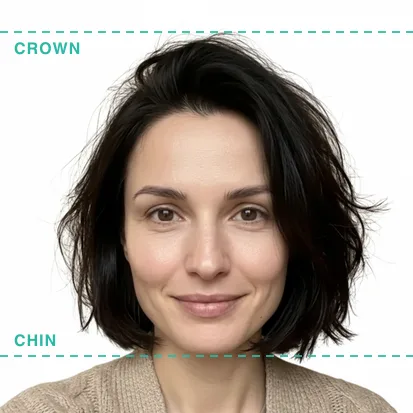
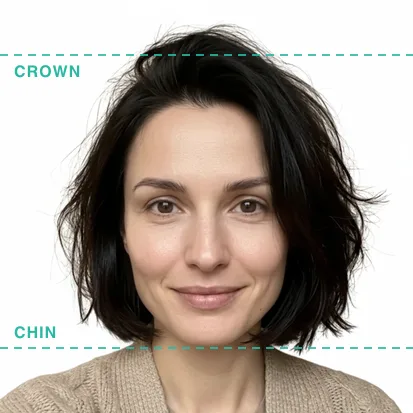
[fix] 크롭 안착 v3 — 정수리 앵커(IDPASS 정본 수학) + wide 프레이밍 생성, 붕 뜬 배치 교정
v2의 헤어끝~턱=얼굴 측정은 규격 정의(정수리~턱) 위반 — 두상 축소 배치의 원인.
크롭앱 정본(crown=눈~턱 반전, 눈 44%, 허용 40~48%) 이식, 순백 스캔은 헤어 잘림 방지로 강등.
specs 생성 프롬프트 wide(가슴 위·머리 위 여백 15%) 전환 — 크롭 원자재 확보(어깨선 동근원).
faceTarget 범위 상위권(min+0.6폭) 상향. 가이드 25종 재생성(CROWN=정수리).

diff --git a/monkos_AI/crop-engine/lib/crop.js b/monkos_AI/crop-engine/lib/crop.js
@@ -189,62 +189,81 @@ async function cropWithPadding(imageBuffer, scale, extractTop, extractLeft, fram
 }
 
 /**
- * 규격 안착 크롭 v2 — 순백 배경 전제 (스펙스 파이프라인 전용, 2026-07-06)
+ * 규격 안착 크롭 v3 — IDPASS 크롭앱 정본 수학 이식 (2026-07-06 야간 교정)
  *
- * AI 배경제거 출력(순백 #FFF)이 입력이므로 피사체 상단(머리끝)을 픽셀 실측할 수 있다.
- * v1의 해부학 정수리 추정(눈~턱 반전 + 헤어볼륨 8%)은 헤어스타일에 따라 실측과 어긋나
- * 상단 여백 0mm 밀착이 발생(2026-07-06 Phase 0 실측) — v2는 실측 앵커로 대체.
+ * v2의 "머리끝~턱 = 얼굴" 측정은 오류였다: 규격의 머리 높이는 정수리~턱(두상)이며,
+ * 헤어 볼륨을 얼굴에 포함하면 두상이 축소 배치돼 틀 안에서 붕 뜬다 (작가님 실사고 지적).
  *
- * 배치: face = 실측 머리끝 ~ FaceMesh 턱을 spec.faceTargetMm으로 스케일,
- *       머리끝을 spec.topMarginMm에 안착, 양 눈 중심을 수평 중앙 정렬.
+ * 정본 배치 (portal/public/crop/crop.js = IDPASS 검증 로직):
+ *   crown = 눈 - (턱 - 눈)  ← 해부학: 눈은 두상의 1/2
+ *   face  = crown ~ chin  →  spec.faceTargetMm으로 스케일
+ *   눈 위치 = 프레임 상단 44% (허용 40~48%)
+ * 순백 스캔(머리끝 실측)은 "헤어 잘림 방지" 보조로만: 헤어가 프레임 밖이면
+ * 내려 앉히고, 눈 48% 초과 시 faceMinMm까지 축소.
  *
- * @param {Buffer} imageBuffer - 순백 배경 이미지
- * @param {object} landmarks - detectFace() 반환값
- * @param {object} spec - { frameW, frameH (px), frameHmm, faceTargetMm, topMarginMm }
+ * @param {object} spec - { frameW, frameH(px), frameHmm, faceTargetMm, faceMinMm?, hairMarginMm? }
  */
+const EYE_TARGET_RATIO = 0.44;   // 크롭앱 최적 43~45%
+const EYE_MAX_RATIO = 0.48;      // 크롭앱 허용 상한
+const HAIR_MARGIN_MM_DEFAULT = 2; // 헤어탑 위 최소 여백
+
 export async function cropToSpecV2(imageBuffer, landmarks, spec) {
-  const { frameW, frameH, frameHmm, faceTargetMm, topMarginMm } = spec;
+  const { frameW, frameH, frameHmm, faceTargetMm } = spec;
   if (!frameW || !frameH || !frameHmm || !faceTargetMm) {
-    throw new Error('[CropV2] spec 필수 필드 누락 (frameW/frameH/frameHmm/faceTargetMm)');
+    throw new Error('[CropV3] spec 필수 필드 누락 (frameW/frameH/frameHmm/faceTargetMm)');
   }
   const mmPx = frameH / frameHmm;
-  const topMm = (typeof topMarginMm === 'number') ? topMarginMm : frameHmm * 0.078;
+  const faceMinMm = spec.faceMinMm || faceTargetMm * 0.93;
+  const hairMarginPx = (spec.hairMarginMm || HAIR_MARGIN_MM_DEFAULT) * mmPx;
 
-  const hairTop = await subjectTopRow(imageBuffer);
   const { chin, leftEye, rightEye, imageWidth, imageHeight } = landmarks;
-  const facePx = chin.y - hairTop;
-  if (facePx <= 0) throw new Error('[CropV2] 유효하지 않은 얼굴 높이 (머리끝 실측 실패 가능)');
+  const eyeY = (leftEye.y + rightEye.y) / 2;
+  const crownY = eyeY - (chin.y - eyeY); // 정수리 = 눈~턱 반전 (크롭앱 동일)
+  const facePx = chin.y - crownY;
+  if (facePx <= 0) throw new Error('[CropV3] 유효하지 않은 얼굴 높이');
+  const hairTop = await subjectTopRow(imageBuffer); // 실측 머리끝 (잘림 방지 보조)
 
-  const scale = (faceTargetMm * mmPx) / facePx;
+  let scale = (faceTargetMm * mmPx) / facePx;
+  const place = (s) => Math.round(eyeY * s - EYE_TARGET_RATIO * frameH); // 눈 44% 앵커
+
+  let extractTop = place(scale);
+  // 헤어 잘림 방지 — 헤어탑이 여백 미달이면 내려 앉힘, 눈 상한(48%) 초과 시 얼굴 축소
+  if (hairTop * scale - extractTop < hairMarginPx) {
+    extractTop = Math.round(hairTop * scale - hairMarginPx);
+    let eyeRatio = (eyeY * scale - extractTop) / frameH;
+    while (eyeRatio > EYE_MAX_RATIO && (facePx * scale / mmPx) > faceMinMm) {
+      scale *= 0.99;
+      extractTop = Math.round(hairTop * scale - hairMarginPx);
+      eyeRatio = (eyeY * scale - extractTop) / frameH;
+    }
+  }
+
   const eyeCenterX = (leftEye.x + rightEye.x) / 2;
   const scaledW = Math.round(imageWidth * scale);
   const scaledH = Math.round(imageHeight * scale);
-
-  let extractTop = Math.round(hairTop * scale - topMm * mmPx);
   let extractLeft = Math.round(eyeCenterX * scale - frameW / 2);
+
+  const buildMeta = (padded) => ({
+    faceMM: (facePx * scale / mmPx).toFixed(1),                                  // 정수리~턱 (규격 정의)
+    crownMarginMM: ((crownY * scale - extractTop) / mmPx).toFixed(1),            // 정수리 위 여백
+    hairMarginMM: ((hairTop * scale - extractTop) / mmPx).toFixed(1),            // 실측 헤어탑 여백
+    eyePositionPercent: ((eyeY * scale - extractTop) / frameH * 100).toFixed(1), // 목표 44%
+    scale: Math.round(scale * 100) / 100,
+    ...(padded ? { padded: true } : {}),
+  });
 
   // 스케일 결과가 프레임보다 작으면 흰 패딩 — 클램프 전 원시 좌표 유지 (음수 = 패딩량, 중앙정렬 보존)
   if (scaledW < frameW || scaledH < frameH) {
-    const meta = {
-      faceMM: (facePx * scale / mmPx).toFixed(1),
-      topMarginMM: ((hairTop * scale - extractTop) / mmPx).toFixed(1),
-      eyePositionPercent: ((((leftEye.y + rightEye.y) / 2) * scale - extractTop) / frameH * 100).toFixed(1),
-      scale: Math.round(scale * 100) / 100,
-      padded: true,
-    };
+    const meta = buildMeta(true);
     const padded = await cropWithPadding(imageBuffer, scale, extractTop, extractLeft, frameW, frameH, scaledW, scaledH);
+    console.log(`[CropV3] face=${meta.faceMM}mm crown=${meta.crownMarginMM}mm eye=${meta.eyePositionPercent}% (padded)`);
     return { buffer: padded.buffer, meta };
   }
 
   extractTop = Math.max(0, Math.min(extractTop, scaledH - frameH));
   extractLeft = Math.max(0, Math.min(extractLeft, scaledW - frameW));
 
-  const meta = {
-    faceMM: (facePx * scale / mmPx).toFixed(1),
-    topMarginMM: ((hairTop * scale - extractTop) / mmPx).toFixed(1),
-    eyePositionPercent: ((((leftEye.y + rightEye.y) / 2) * scale - extractTop) / frameH * 100).toFixed(1),
-    scale: Math.round(scale * 100) / 100,
-  };
+  const meta = buildMeta(false);
 
   const buffer = await sharp(imageBuffer)
     .resize(scaledW, scaledH, { fit: 'fill' })
@@ -254,7 +273,7 @@ export async function cropToSpecV2(imageBuffer, landmarks, spec) {
     .png()
     .toBuffer();
 
-  console.log(`[CropV2] face=${meta.faceMM}mm top=${meta.topMarginMM}mm eye=${meta.eyePositionPercent}%`);
+  console.log(`[CropV3] face=${meta.faceMM}mm crown=${meta.crownMarginMM}mm hair=${meta.hairMarginMM}mm eye=${meta.eyePositionPercent}%`);
   return { buffer, meta };
 }
 

diff --git a/monkos_AI/portal/lib/idphoto-generate.js b/monkos_AI/portal/lib/idphoto-generate.js
@@ -64,13 +64,20 @@ const EXPRESSION_PROMPTS = {
   neutral: 'natural calm resting face with soft relaxed eyes, at ease and composed',
 };
 
+// 프레이밍 지시 2종 (2026-07-06): 규격 안착 크롭이 뒤따르는 specs 경로는 'wide' —
+// AI가 임의로 타이트하게 잘라버리면 크롭 단계에 여백·어깨 원자재가 없어 규격 안착 불능.
+const FRAMING_INSTRUCTIONS = {
+  passport: 'Crop/frame to passport format: head centered, face 70-80% of frame height, 3:4 ratio',
+  wide: 'Frame as a chest-up portrait: the ENTIRE head fully visible with generous empty space above the hair (about 15% of frame height), both shoulders and upper chest included. The face (chin to top of head) should occupy roughly 45-55% of the frame height. Head horizontally centered.',
+};
+
 const ZERO_TOUCH_PROMPT = `[STRICT PASSPORT PHOTO CONVERSION — ZERO MODIFICATION]
 
 You are converting a casual photo into an official passport/ID photo.
 
 YOUR ONLY JOBS:
 1. Replace the background with pure white (#FFFFFF)
-2. Crop/frame to passport format: head centered, face 70-80% of frame height, 3:4 ratio
+2. {{FRAMING}}
 
 ABSOLUTELY DO NOT CHANGE:
 - Face, skin, features — NOTHING. Not even "enhancement" or "improvement"
@@ -87,12 +94,12 @@ Think of this as: CROP + BACKGROUND REMOVAL. Nothing else.
 The output must be the SAME PERSON with the SAME APPEARANCE, just on a white background in passport framing.`;
 
 function buildPromptV5(body, model) {
-  let { format, gender, age } = body;
+  let { format, gender, age, framing } = body;
   gender = gender || 'm';
   age = age || 'adult';
 
   if (model === 'gemini-2.5-flash') {
-    return ZERO_TOUCH_PROMPT;
+    return ZERO_TOUCH_PROMPT.replace('{{FRAMING}}', FRAMING_INSTRUCTIONS[framing] || FRAMING_INSTRUCTIONS.passport);
   }
 
   const parts = [];
@@ -136,7 +143,7 @@ const MODEL_MAP = {
 
 const REGIONAL_MODELS = new Set(['gemini-2.5-flash-image']);
 
-export async function generateIdPhoto({ image, format, gender, age, model, userId }) {
+export async function generateIdPhoto({ image, format, gender, age, model, userId, framing }) {
   if (!image) throw new Error('이미지 필수');
 
   const base64Data = extractBase64(image);
@@ -148,7 +155,7 @@ export async function generateIdPhoto({ image, format, gender, age, model, userI
     throw new Error('이미지가 너무 큽니다 (7MB 이하)');
   }
 
-  const instruction = buildPromptV5({ format: format || 'passport', gender, age }, model);
+  const instruction = buildPromptV5({ format: format || 'passport', gender, age, framing }, model);
 
   const client = REGIONAL_MODELS.has(modelId) ? regionAI : imageAI;
   const response = await client.models.generateContent({

diff --git a/monkos_AI/portal/lib/spec-crop.js b/monkos_AI/portal/lib/spec-crop.js
@@ -33,17 +33,17 @@ function parseSizeMm(str) {
   return [parseFloat(m[1]) * k, parseFloat(m[2]) * k];
 }
 
-/** "3.2~3.6cm" | "3.4cm" | "1~1⅜ inches (25~35mm)" → 타겟 mm (범위면 중간값) */
-function parseHeadHeightMm(str) {
+/** "3.2~3.6cm" | "3.4cm" | "1~1⅜ inches (25~35mm)" → [minMm, maxMm] (단일값은 ±5%) */
+function parseHeadHeightRangeMm(str) {
   const s = String(str || '');
   const rangeCm = s.match(/([\d.]+)\s*[~\-]\s*([\d.]+)\s*cm/i);
-  if (rangeCm) return ((parseFloat(rangeCm[1]) + parseFloat(rangeCm[2])) / 2) * 10;
+  if (rangeCm) return [parseFloat(rangeCm[1]) * 10, parseFloat(rangeCm[2]) * 10];
   const rangeMm = s.match(/([\d.]+)\s*[~\-]\s*([\d.]+)\s*mm/i);
-  if (rangeMm) return (parseFloat(rangeMm[1]) + parseFloat(rangeMm[2])) / 2;
+  if (rangeMm) return [parseFloat(rangeMm[1]), parseFloat(rangeMm[2])];
   const singleCm = s.match(/([\d.]+)\s*cm/i);
-  if (singleCm) return parseFloat(singleCm[1]) * 10;
+  if (singleCm) { const v = parseFloat(singleCm[1]) * 10; return [v * 0.95, v * 1.05]; }
   const singleMm = s.match(/([\d.]+)\s*mm/i);
-  if (singleMm) return parseFloat(singleMm[1]);
+  if (singleMm) { const v = parseFloat(singleMm[1]); return [v * 0.95, v * 1.05]; }
   return null;
 }
 
@@ -63,14 +63,17 @@ export function getSpecCropParams(slug) {
   if (!frame) return null;
 
   const frameHmm = sizeMm ? sizeMm[1] : (frame[1] / (Number(data.dpi) || 300)) * 25.4;
-  let faceTargetMm = parseHeadHeightMm(data.headHeight);
-  // 파싱 불가 or 비상식 값 → 보수 기본값 (프레임 높이의 72%)
+  const range = parseHeadHeightRangeMm(data.headHeight);
+  // 타겟 = 범위 상위권(min + 0.6×폭) — 사진관 관행: 허용 범위의 중상단이 안정적 (크롭앱 최적 33~35/45 준거)
+  let faceMinMm = range ? range[0] : null;
+  let faceTargetMm = range ? +(range[0] + (range[1] - range[0]) * 0.6).toFixed(1) : null;
+  // 파싱 불가 or 비상식 값 → 보수 기본값 (프레임 높이의 72% — 크롭앱 여권 기본 비율)
   if (!faceTargetMm || faceTargetMm >= frameHmm * 0.9 || faceTargetMm < frameHmm * 0.3) {
     faceTargetMm = +(frameHmm * 0.72).toFixed(1);
+    faceMinMm = +(frameHmm * 0.66).toFixed(1);
   }
-  const topMarginMm = +(frameHmm * 0.078).toFixed(1); // 관행: 45mm 프레임 기준 ~3.5mm
 
-  return { frameW: frame[0], frameH: frame[1], frameHmm, faceTargetMm, topMarginMm };
+  return { frameW: frame[0], frameH: frame[1], frameHmm, faceTargetMm, faceMinMm, hairMarginMm: 2 };
 }
 
 /**

diff --git a/monkos_AI/portal/__tests__/spec-crop.test.js b/monkos_AI/portal/__tests__/spec-crop.test.js
@@ -16,18 +16,18 @@ const { createRequire } = await import('module');
 const SPECS_DATA = createRequire(import.meta.url)('../lib/cms/specs-data.json');
 
 describe('규격 파라미터 파서', () => {
-  test('kr-passport: 35×45mm, 얼굴 3.2~3.6cm → 타겟 34mm', () => {
+  test('kr-passport: 35×45mm, 얼굴 3.2~3.6cm → 타겟 상위권 34.4mm (크롭앱 최적 33~35 준거)', () => {
     expect(getSpecCropParams('kr-passport')).toEqual({
-      frameW: 413, frameH: 531, frameHmm: 45, faceTargetMm: 34, topMarginMm: 3.5,
+      frameW: 413, frameH: 531, frameHmm: 45, faceTargetMm: 34.4, faceMinMm: 32, hairMarginMm: 2,
     });
   });
 
   test('us-passport: 정사각 51×51mm, 인치 병기 mm 범위 파싱', () => {
     const p = getSpecCropParams('us-passport');
-    expect(p.frameW).toBe(p.frameH ? p.frameW : p.frameW); // 존재 확인
     expect(p.frameHmm).toBeCloseTo(51, 0);
     expect(p.faceTargetMm).toBeGreaterThanOrEqual(25);
     expect(p.faceTargetMm).toBeLessThanOrEqual(36);
+    expect(p.faceMinMm).toBeLessThan(p.faceTargetMm);
   });
 
   test('전수 커버리지: 428건 중 파라미터 산출 426건 이상', () => {

diff --git a/monkos_AI/portal/server.js b/monkos_AI/portal/server.js
@@ -372,9 +372,10 @@ Respond in JSON only:
 
       let generatedBase64;
       try {
-        // specs(slug 보유)는 무보정 배경제거 정본 = gemini-2.5-flash (작가님 2026-07-06: 보정 없이 틀만)
+        // specs(slug 보유)는 무보정 배경제거 정본 = gemini-2.5-flash + 여유 프레이밍(wide)
+        // — 크롭 원자재 확보 (AI의 타이트 크롭 위에서 재단하면 여백·어깨 부족, 2026-07-06 실사고)
         const effectiveModel = model || (slug ? 'gemini-2.5-flash' : 'nano-banana-pro');
-        generatedBase64 = await generateIdPhoto({ image, format: format || 'passport', gender, age, model: effectiveModel, userId: gateUserId === 'specs-visitor' ? 'specs-visitor' : gateUserId });
+        generatedBase64 = await generateIdPhoto({ image, format: format || 'passport', gender, age, model: effectiveModel, userId: gateUserId === 'specs-visitor' ? 'specs-visitor' : gateUserId, framing: slug ? 'wide' : undefined });
       } catch (genErr) {
         // 서버측 생성 실패 → 소모분 반환 (토큰 쿼터 / 크레딧)
         if (gateMode === 'token') {
